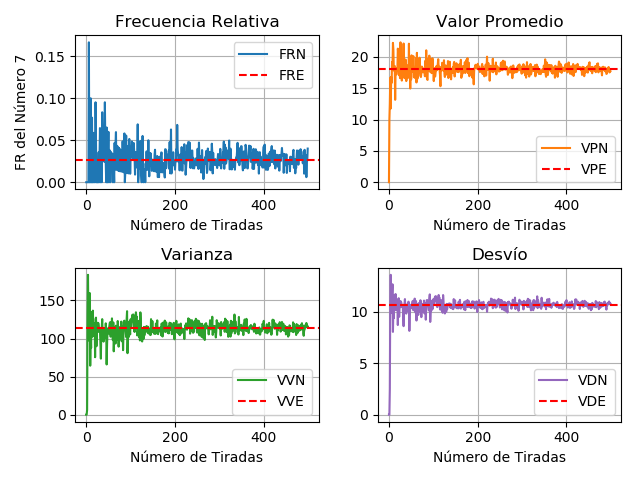
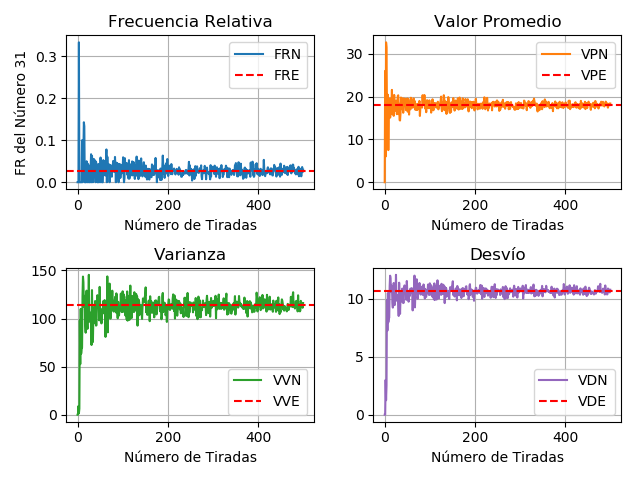
Add Multi-result Graphs, Re-make simulation with Numpy Matrixes

diff --git a/TP1 - Roulette Analysis/__init__.py b/TP1 - Roulette Analysis/__init__.py
@@ -9,10 +9,13 @@ Author: Antonelli, Nicolás (44852)
 Professor: Torres, Juan
 Final Date: 15/04/2020
 
+Python Libraries/Modules Used:
+    - Numpy: Random Numbers, Statistical Functions, Array Manipulation
+    - Pyplot: Matplotlib Module for Graph Plotting
+
 Note: All Printed Messages and Plotted Graphs are in SPANISH
 """
 
-import random as rand
 import numpy as np
 import matplotlib.pyplot as plt
 
@@ -68,58 +71,66 @@ if __name__ == "__main__":
     print("Desvío Esperado: "+str(dev_expected))
     print()
 
+    # Total "Results" to Plot at the Same Time (For the 2nd 4-Stack of Graphs):
+    # Recommended: Between 5 and 10
+    results = 6
+
     # Total Iterations
     iterations = 0
     while (iterations==0):
+        # Validation
         iterations = abs(int(float(input("Ingrese Iteraciones (Tiradas): "))))
     print()
 
     # Any Number for the Analysis
     one_number = 37
     while (one_number>36):
+        # Validation
         one_number = abs(int(float(input("Ingrese su Número (Entre 0 y 36): "))))
     print()
 
     # For Every Iteration: Mean-Deviaton-Variance Values & Relative Frecuency of One Number
-    rfr_array = [0] # Relative Frecuencies of One Number Array Initialization
-    avg_array = [0] # Average (Mean) Arry Initialization
-    var_array = [0] # Variance Array Initialization
-    dev_array = [0] # Deviation Array Initialization
-    results = np.zeros(37, dtype=int) # Initialization for Obtained Roulette's Values
+    # Matix Re-Size: Arrays of Arrays, Needed for the Graph with few "Results" simultaniously
+    rfr_array = np.zeros((6, iterations+1)) # Relative Frecuencies of One Number Array Initialization
+    avg_array = np.zeros((6, iterations+1)) # Average (Mean) Arry Initialization
+    var_array = np.zeros((6, iterations+1)) # Variance Array Initialization
+    dev_array = np.zeros((6, iterations+1)) # Deviation Array Initialization
+    roulette_values = np.zeros(37, dtype=int) # Initialization for Obtained Roulette's Values
     print("Cargando "+str(iterations)+" iteraciones...")
-    for i in range(1, iterations):
-        for j in range(0, i):
-            # Playing Roulette and Analyzing the Obtained Numbers
-            n = rand.randint(0, 36)
-            results[n] += 1
-        # Filling Important Arrays
-        rfr_array.append(results[one_number]/sum(results))
-        avg_array.append(round(average_with_frecuency(results, i), 6))
-        # avg_array.append(round(np.average(results, weights=numbers), 6))
-        variance = round(variance_with_frecuency(results, i), 6)
-        var_array.append(variance)
-        dev_array.append(round(deviation_with_frecuency(variance), 6))
-        results = np.zeros(37, dtype=int) # Reset for all Obtained Roulette's Values
+    for i in range(results):
+        for j in range(1, iterations+1):
+            for _ in range(0, j):
+                # Playing Roulette and Analyzing the Obtained Numbers
+                n = np.random.randint(0, 37)
+                roulette_values[n] += 1
+            # Filling Important Arrays (In the Matrix Position for the Actual Results Array)
+            rfr_array[i][j] = roulette_values[one_number]/sum(roulette_values)
+            avg_array[i][j] = round(average_with_frecuency(roulette_values, j), 6)
+            variance = round(variance_with_frecuency(roulette_values, j), 6)
+            var_array[i][j] = variance
+            dev_array[i][j] = round(deviation_with_frecuency(variance), 6)
+            roulette_values = np.zeros(37, dtype=int) # Reset for all Obtained Roulette's Values
+        print("Result "+str(i+1)+" of "+str(results)+" loaded")
     print()
     
-    # Graphs
+    # First Array of Results' Graphs
     fig, axs = plt.subplots(2, 2)
-    fig.canvas.set_window_title("Simulación de Ruleta: Análisis (de 0 a "+str(iterations)+" tiradas)")
+    fig.canvas.set_window_title("Simulación de Ruleta: Análisis (de 0 a "+str(iterations)+" tiradas) - Stack 1")
 
-    axs[0, 0].plot(rfr_array, 'tab:blue', label="FRN")
+    axs[0, 0].plot(rfr_array[0], 'tab:blue', label="FRN")
     axs[0, 0].set_title("Frecuencia Relativa")
     axs[0, 0].axhline(rfr_expected, color='red', linestyle='--', label="FRE")
     plt.setp(axs[0, 0], ylabel="FR del Número "+str(one_number))
 
-    axs[0, 1].plot(avg_array, 'tab:orange', label="VPN")
+    axs[0, 1].plot(avg_array[0], 'tab:orange', label="VPN")
     axs[0, 1].set_title('Valor Promedio')
     axs[0, 1].axhline(avg_expected, color='red', linestyle='--', label="VPE")
 
-    axs[1, 0].plot(var_array, 'tab:green', label="VVN")
+    axs[1, 0].plot(var_array[0], 'tab:green', label="VVN")
     axs[1, 0].set_title('Varianza')
     axs[1, 0].axhline(var_expected, color='red', linestyle='--', label="VVE")
 
-    axs[1, 1].plot(dev_array, 'tab:purple', label="VDN")
+    axs[1, 1].plot(dev_array[0], 'tab:purple', label="VDN")
     axs[1, 1].set_title('Desvío')
     axs[1, 1].axhline(dev_expected, color='red', linestyle='--', label="VDE")
     
@@ -130,5 +141,59 @@ if __name__ == "__main__":
     
     fig.tight_layout()
     plt.savefig("TP1 - Roulette Analysis/graphs/graph_iterations_"+str(iterations)+".png")
-    print("Gráfico Guardado Correctamente")
+    print("1er 4-Stack de Gráficos Guardado Correctamente")
+    print()
+
+    # Now, Comparing all the Results Array at the same Time
+    fig, axs = plt.subplots(2, 2)
+    fig.canvas.set_window_title("Simulación de Ruleta: Análisis (de 0 a "+str(iterations)+" tiradas) - Stack 2")
+
+    axs[0, 0].plot(rfr_array[0], 'tab:blue')
+    axs[0, 0].plot(rfr_array[1], 'tab:orange')
+    axs[0, 0].plot(rfr_array[2], 'tab:green')
+    axs[0, 0].plot(rfr_array[3], 'tab:purple')
+    axs[0, 0].plot(rfr_array[4], 'tab:pink')
+    axs[0, 0].plot(rfr_array[5], 'tab:brown')
+    axs[0, 0].set_title("Frecuencia Relativa")
+    axs[0, 0].axhline(rfr_expected, color='red', linestyle='--', label="FRE")
+    plt.setp(axs[0, 0], ylabel="FR del Número "+str(one_number))
+
+    axs[0, 1].plot(avg_array[0], 'tab:blue')
+    axs[0, 1].plot(avg_array[1], 'tab:orange')
+    axs[0, 1].plot(avg_array[2], 'tab:green')
+    axs[0, 1].plot(avg_array[3], 'tab:purple')
+    axs[0, 1].plot(avg_array[4], 'tab:pink')
+    axs[0, 1].plot(avg_array[5], 'tab:brown')
+    axs[0, 1].set_title('Valor Promedio')
+    axs[0, 1].axhline(avg_expected, color='red', linestyle='--', label="VPE")
+
+    axs[1, 0].plot(var_array[0], 'tab:blue')
+    axs[1, 0].plot(var_array[1], 'tab:orange')
+    axs[1, 0].plot(var_array[2], 'tab:green')
+    axs[1, 0].plot(var_array[3], 'tab:purple')
+    axs[1, 0].plot(var_array[4], 'tab:pink')
+    axs[1, 0].plot(var_array[5], 'tab:brown')
+    axs[1, 0].set_title('Varianza')
+    axs[1, 0].axhline(var_expected, color='red', linestyle='--', label="VVE")
+
+    axs[1, 1].plot(dev_array[0], 'tab:blue')
+    axs[1, 1].plot(dev_array[1], 'tab:orange')
+    axs[1, 1].plot(dev_array[2], 'tab:green')
+    axs[1, 1].plot(dev_array[3], 'tab:purple')
+    axs[1, 1].plot(dev_array[4], 'tab:pink')
+    axs[1, 1].plot(dev_array[5], 'tab:brown')
+    axs[1, 1].set_title('Desvío')
+    axs[1, 1].axhline(dev_expected, color='red', linestyle='--', label="VDE")
+    
+    for ax in fig.get_axes():
+        ax.grid(True)
+        ax.legend()
+        plt.setp(ax, xlabel="Número de Tiradas")
+    
+    fig.tight_layout()
+    plt.savefig("TP1 - Roulette Analysis/graphs/multi_graph_iterations_"+str(iterations)+".png")
+    print("2do 4-Stack de Gráficos Guardado Correctamente")
+    print()
+
+    # Plotting all the Graphs
     plt.show()
